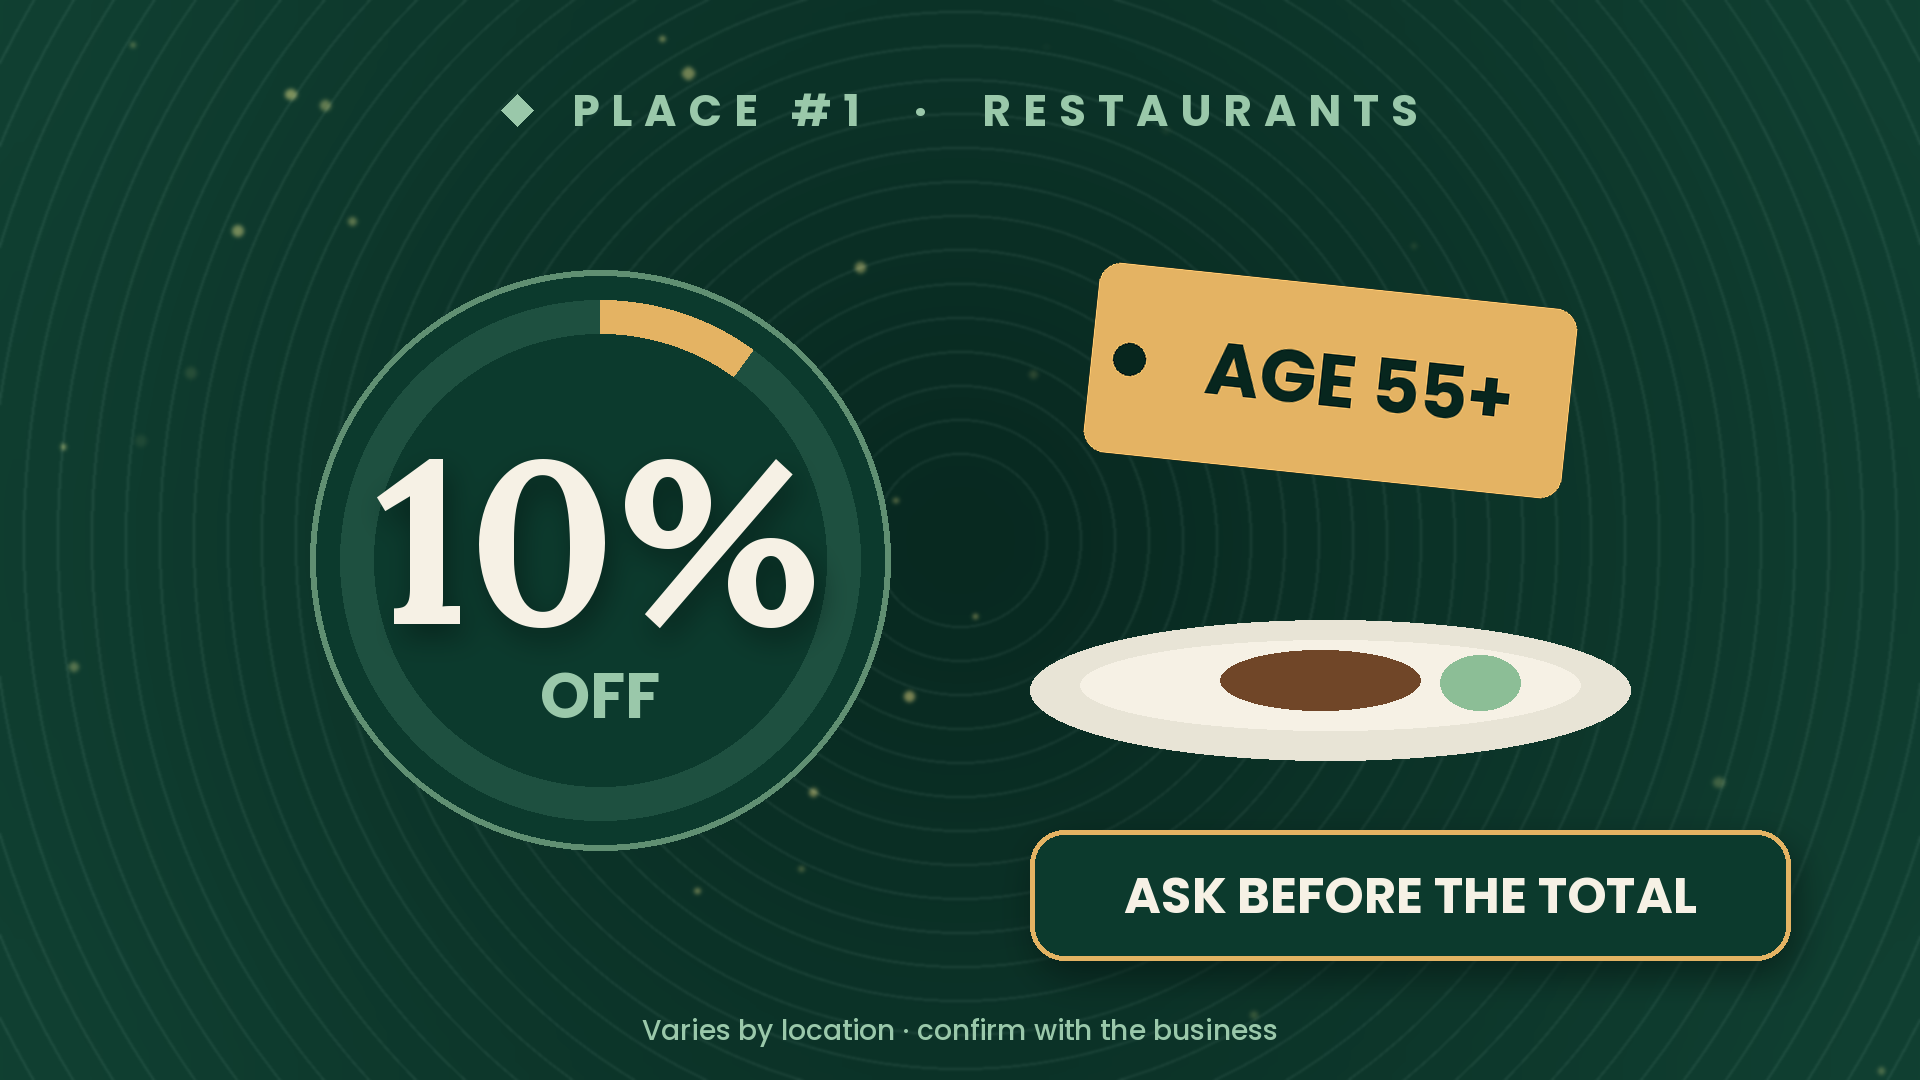
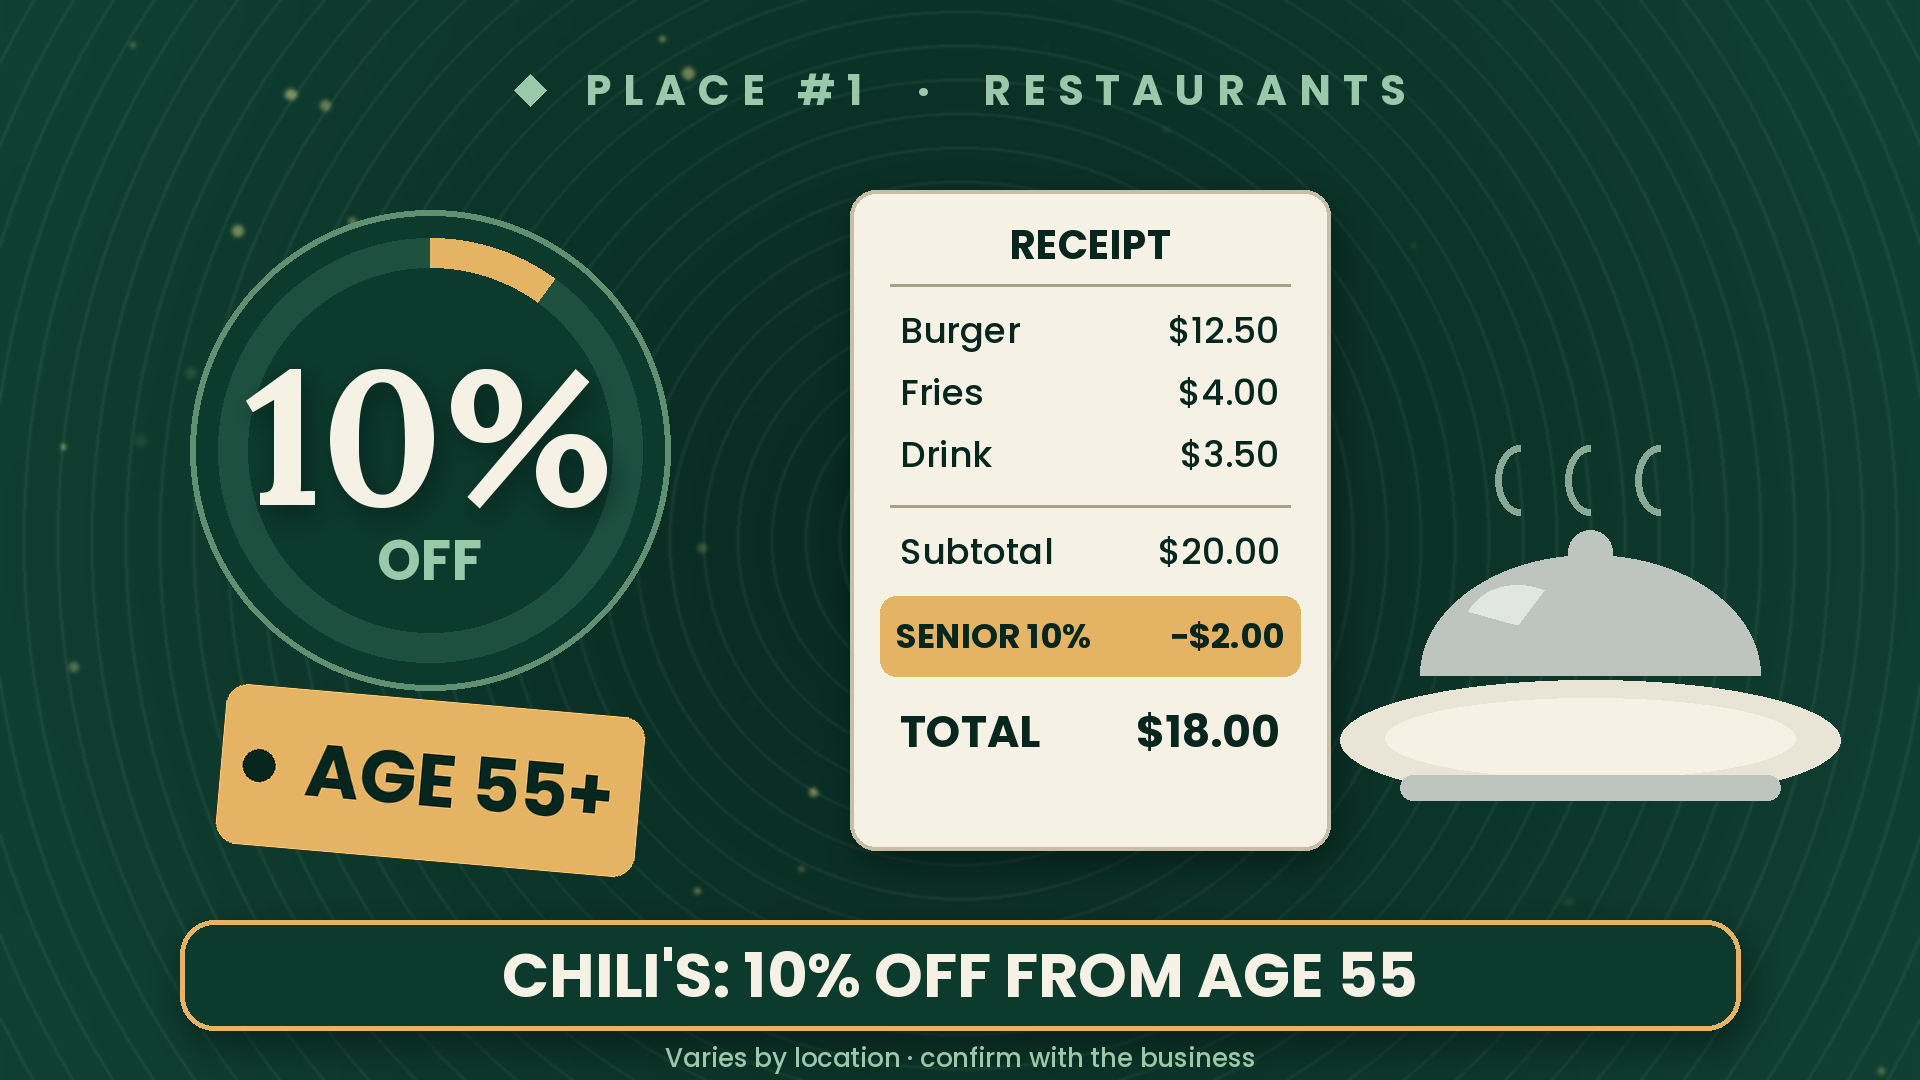
Senior Advantage: slide dettagliate (scontrino, cloche, didascalia grande), slide finale con disclaimer, note monetizzazione
Claude-Session: https://claude.ai/code/session_01VdcN6aGh1CnYp1K1Fxe615

diff --git a/senior_advantage/code/long1_anteprima.py b/senior_advantage/code/long1_anteprima.py
@@ -82,5 +82,83 @@ def item(t=3.0):
     return img
 
 
+def receipt(img, x0, y0, x1, y1):
+    """scontrino dettagliato: righe, sconto senior evidenziato, totale"""
+    panel(img, [x0, y0, x1, y1], radius=26, fill=(246, 241, 229), border=(200, 190, 165), bw=4)
+    d = ImageDraw.Draw(img); dark = GREEN_D
+    d.text(((x0 + x1) / 2, y0 + 55), "RECEIPT", font=font(FONT_SANS, 40), fill=dark, anchor="mm")
+    d.line([x0 + 40, y0 + 95, x1 - 40, y0 + 95], fill=(170, 160, 135), width=3)
+    rows = [("Burger", "$12.50"), ("Fries", "$4.00"), ("Drink", "$3.50")]
+    y = y0 + 140
+    for a, b in rows:
+        d.text((x0 + 50, y), a, font=font(FONT_SANS_M, 36), fill=dark, anchor="lm")
+        d.text((x1 - 50, y), b, font=font(FONT_SANS_M, 36), fill=dark, anchor="rm"); y += 62
+    d.line([x0 + 40, y - 10, x1 - 40, y - 10], fill=(170, 160, 135), width=3)
+    d.text((x0 + 50, y + 35), "Subtotal", font=font(FONT_SANS_M, 36), fill=dark, anchor="lm")
+    d.text((x1 - 50, y + 35), "$20.00", font=font(FONT_SANS_M, 36), fill=dark, anchor="rm")
+    d.rounded_rectangle([x0 + 30, y + 80, x1 - 30, y + 160], radius=16, fill=GOLD)
+    d.text((x0 + 46, y + 120), "SENIOR 10%", font=font(FONT_SANS, 34), fill=GREEN_D, anchor="lm")
+    d.text((x1 - 46, y + 120), "\u2212$2.00", font=font(FONT_SANS, 34), fill=GREEN_D, anchor="rm")
+    d.text((x0 + 50, y + 215), "TOTAL", font=font(FONT_SANS, 44), fill=dark, anchor="lm")
+    d.text((x1 - 50, y + 215), "$18.00", font=font(FONT_SANS, 44), fill=dark, anchor="rm")
+
+
+def item2(t=3.0):
+    """luogo 1 piu' dettagliato: anello %, scontrino, piatto, didascalia grande"""
+    img = background(t); d = ImageDraw.Draw(img)
+    spaced(img, "PLACE #1  \u00b7  RESTAURANTS", W // 2, 90, 42)
+    cx, cy, r = 430, 450, 240
+    d.ellipse([cx - r, cy - r, cx + r, cy + r], fill=CARD, outline=SAGE_D, width=6)
+    d.arc([cx - r + 28, cy - r + 28, cx + r - 28, cy + r - 28], -90, 270, fill=(30, 80, 64), width=30)
+    d.arc([cx - r + 28, cy - r + 28, cx + r - 28, cy + r - 28], -90, -90 + 360 * .10, fill=GOLD, width=30)
+    shadow_text(img, (cx, cy - 15), "10%", font(FONT_SERIF, 190), IVORY, off=(6, 10), blur=12)
+    d.text((cx, cy + 110), "OFF", font=font(FONT_SANS, 56), fill=SAGE, anchor="mm")
+    lay = new_layer(); price_tag(lay[0], lay[1], cx, 780, "AGE 55+", 420, 160); paste_rot(img, lay, -5, (cx, 780))
+    receipt(img, 850, 190, 1330, 850)
+    # piatto con cloche accanto allo scontrino
+    lay = new_layer(); rgb, mask = lay; r_, m_ = ImageDraw.Draw(rgb), ImageDraw.Draw(mask)
+    px, py = 1590, 640
+    for dr, c in ((r_, (232, 228, 214)), (m_, 255)):
+        dr.ellipse([px - 250, py + 40, px + 250, py + 160], fill=c)
+    r_.ellipse([px - 205, py + 58, px + 205, py + 138], fill=(246, 241, 229))
+    for dr, c in ((r_, (190, 196, 190)), (m_, 255)):
+        dr.pieslice([px - 170, py - 85, px + 170, py + 155], 180, 360, fill=c)
+        dr.rounded_rectangle([px - 190, py + 135, px + 190, py + 160], radius=12, fill=c)
+        dr.ellipse([px - 22, py - 110, px + 22, py - 66], fill=c)
+    r_.pieslice([px - 125, py - 55, px - 20, py + 25], 200, 300, fill=(225, 230, 225))
+    for k in range(3):
+        sx = px - 70 + k * 70
+        for dr, c in ((r_, (170, 200, 180)), (m_, 200)):
+            dr.arc([sx - 25, py - 195, sx + 25, py - 125], 90, 270, fill=c, width=7)
+    alpha_layer(img, lay, 1)
+    # didascalia grande e chiara (per chi legge da lontano)
+    panel(img, [180, 920, 1740, 1030], radius=34, border=GOLD, bw=5)
+    d = ImageDraw.Draw(img)
+    d.text((960, 975), "CHILI'S: 10% OFF FROM AGE 55", font=font(FONT_SANS, 62), fill=IVORY, anchor="mm")
+    d.text((960, 1058), "Varies by location \u00b7 confirm with the business", font=font(FONT_SANS_M, 26), fill=SAGE, anchor="mm")
+    return img
+
+
+def closing(t=3.0):
+    """ultima slide: disclaimer in chiaro + spazio per la schermata finale"""
+    img = background(t); d = ImageDraw.Draw(img)
+    spaced(img, "BEFORE YOU GO", W // 2, 120, 44)
+    shadow_text(img, (560, 330), "ALWAYS ASK", font(FONT_SANS, 110), IVORY)
+    shadow_text(img, (560, 470), "BEFORE YOU PAY", font(FONT_SANS, 90), GOLD)
+    panel(img, [100, 620, 1020, 960], radius=34, border=SAGE_D, bw=4)
+    d = ImageDraw.Draw(img)
+    lines = ["Discounts, ages and prices change", "and differ by location and plan.", "Always confirm with the business", "or the official source before you rely on them.", "General information, not financial advice."]
+    for i, l in enumerate(lines):
+        d.text((560, 670 + i * 56), l, font=font(FONT_SANS_M, 36), fill=IVORY if i < 4 else SAGE, anchor="mm")
+    # riquadro tratteggiato per la schermata finale di YouTube
+    bx0, by0, bx1, by1 = 1150, 250, 1830, 710
+    for x in range(bx0 + 20, bx1 - 20, 40):
+        d.line([x, by0, x + 20, by0], fill=GOLD, width=4); d.line([x, by1, x + 20, by1], fill=GOLD, width=4)
+    for y in range(by0 + 20, by1 - 20, 40):
+        d.line([bx0, y, bx0, y + 20], fill=GOLD, width=4); d.line([bx1, y, bx1, y + 20], fill=GOLD, width=4)
+    d.text(((bx0 + bx1) / 2, by1 + 50), "WATCH NEXT", font=font(FONT_SANS, 40), fill=GOLD, anchor="mm")
+    return img
+
+
 if __name__ == "__main__":
-    hook().save(f"{OUT}/1-gancio.png"); item().save(f"{OUT}/2-luogo-1-ristoranti.png"); print("ok")
+    hook().save(f"{OUT}/1-gancio.png"); item2().save(f"{OUT}/2-luogo-1-ristoranti.png"); closing().save(f"{OUT}/3-finale-disclaimer.png"); print("ok")

diff --git a/senior_advantage/README.md b/senior_advantage/README.md
@@ -78,3 +78,13 @@ Tutti i dati vanno **verificati su più fonti ufficiali** prima del copione.
 - Short 3 finale: 720x1278 (export CapCut), 33 s, in `riferimenti/short3-finale.mp4`. Pagina del canale e copertina in `riferimenti/`.
 - Le chat esportate arrivano fino al 29/09: lo short 4 (bollette) non risulta fatto.
 - File export di oggi: memoria completa del canale in `MEMORIA-CANALE.md`.
+
+## Disclaimer e monetizzazione (deciso il 01/10/2026)
+- Il disclaimer **non protegge** da YouTube: la monetizzazione dipende da contenuto originale e utile, da dati corretti e da niente promesse esagerate. Resta una buona pratica e si usa **in 4 punti**:
+  1. Descrizione (già nel testo predefinito).
+  2. Commento fissato.
+  3. Scritto in piccolo in ogni slide dei luoghi: "Varies by location · confirm with the business".
+  4. Slide finale con il disclaimer in chiaro (`anteprima/3-finale-disclaimer.png`) + una frase detta a voce nel blocco finale.
+- Non metterlo all'inizio del video (fa perdere spettatori).
+- Rischi da evitare: contenuto "a modello" identico tra i video (regola "inauthentic content": slideshow/modelli senza valore aggiunto), persone/avatar AI che si presentano come esperti, promesse di guadagno. Quindi: ogni video con dati verificati, fonti scritte, struttura e oggetti diversi per argomento.
+- Anteprime del video lungo 1 in `anteprima/` (codice: `code/long1_anteprima.py`).
